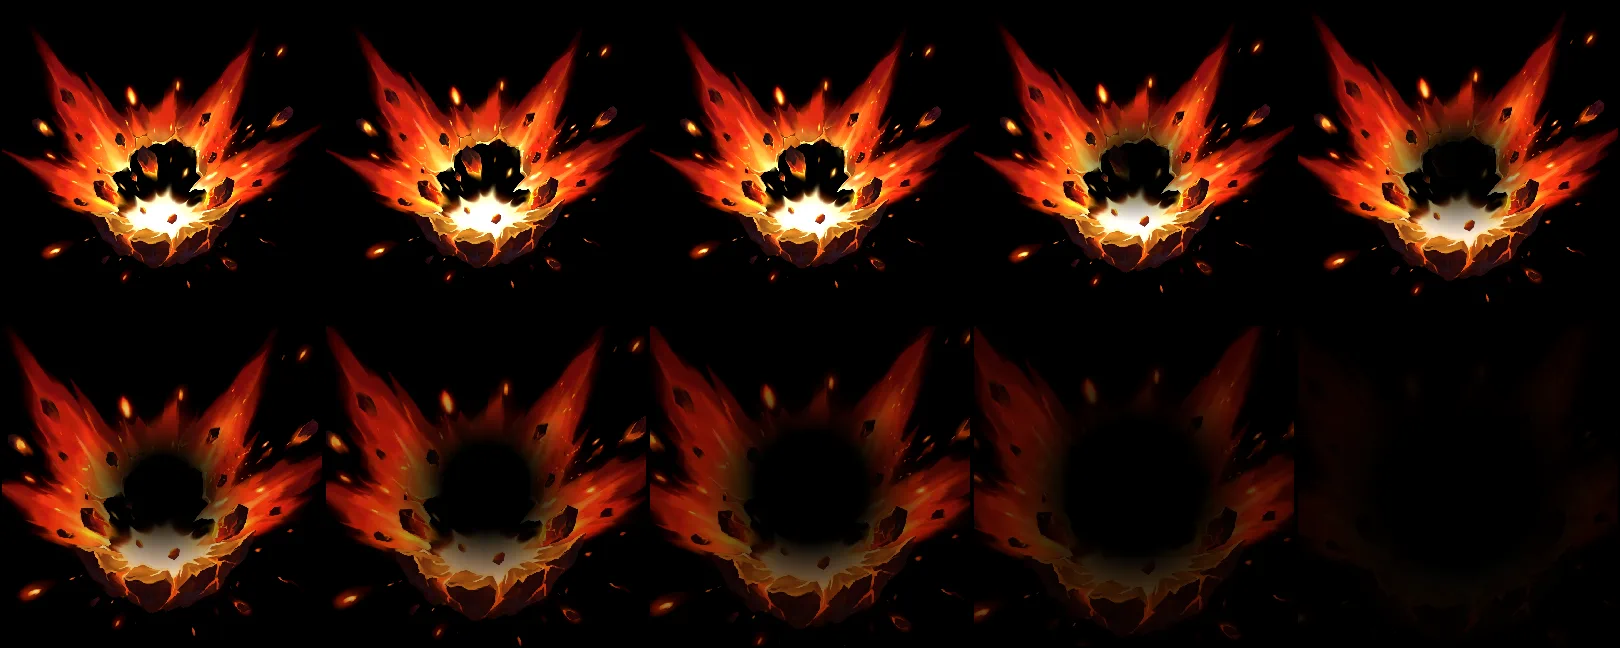
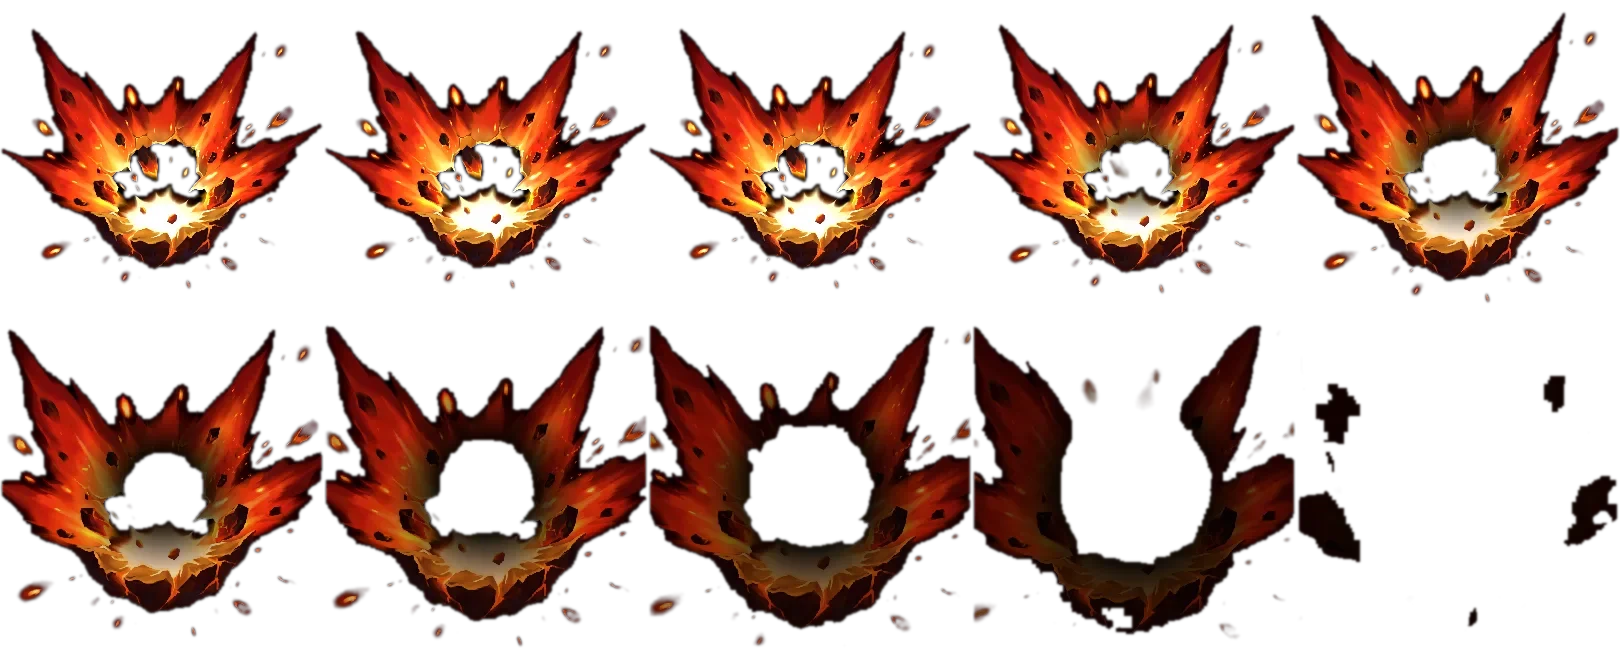
change(fx): the magma slam lands as an explosion, not an orange wash
The burst sheet comes out of the packer fully opaque, so it could only be
drawn additively, and additive cannot darken: the rock chunks in it went
invisible and what reached the board was a haze over the gems. cut-plate-alpha
gives the sheet the alpha it was missing — luminance at the petal tips, and
the small dark islands the flame encloses made opaque, which is what tells
rock from background. The burst's own hollow centre is far larger than any
chunk, so it stays clear and the board still shows through it.

The plate then blends normally, with an additive pass under it for the heat
that lights the gems, and it is sized to the board instead of past it.

diff --git a/src/game/director.js b/src/game/director.js
@@ -1321,11 +1321,20 @@ export class Director {
       y: board.y + board.size * fx.depth,
     };
 
-    const drawn = vfx.bossSwing(kind, where, {
+    const plate = {
       size: span * fx.wide,
       duration: fx.seconds,
       grow: fx.grow,
+    };
+
+    if (fx.glow) {
+      vfx.bossSwing(kind, where, { ...plate, alpha: fx.glow, blend: "add" });
+    }
+
+    const drawn = vfx.bossSwing(kind, where, {
+      ...plate,
       alpha: fx.alpha,
+      blend: fx.blend,
     });
     if (drawn && fx.shake) shake(fx.shake, fx.shakeSeconds || 0.4);
     return drawn;

diff --git a/src/config.js b/src/config.js
@@ -404,18 +404,22 @@ export const BOSS_FX = {
     shakeSeconds: 0.5,
   },
   smash: {
-    wide: 1.46,
-    depth: 0.56,
-    grow: 0.42,
+    blend: "normal",
+    glow: 0.7,
+    wide: 1.08,
+    depth: 0.5,
+    grow: 0.26,
     seconds: 0.5,
     alpha: 1,
     shake: 20,
     shakeSeconds: 0.55,
   },
   erupt: {
-    wide: 1.34,
-    depth: 0.6,
-    grow: 0.24,
+    blend: "normal",
+    glow: 0.7,
+    wide: 1.0,
+    depth: 0.54,
+    grow: 0.2,
     seconds: 0.6,
     alpha: 1,
     shake: 22,

diff --git a/src/fx/vfx.js b/src/fx/vfx.js
@@ -904,7 +904,7 @@ export class Vfx extends Container {
 
     const s = new Sprite(frames[0]);
     s.anchor.set(0.5);
-    s.blendMode = "add";
+    s.blendMode = o.blend || "add";
     s.x = at.x;
     s.y = at.y;
     s.rotation = o.rotation || 0;

diff --git a/tools/cut-plate-alpha.py b/tools/cut-plate-alpha.py
@@ -1,0 +1,117 @@
+import sys
+from pathlib import Path
+
+import numpy as np
+from PIL import Image
+from scipy.ndimage import (
+    binary_closing,
+    binary_fill_holes,
+    gaussian_filter,
+    label,
+)
+
+USAGE = """
+cut-plate-alpha — give an additive plate the alpha it needs to blend normally.
+
+  python tools/cut-plate-alpha.py <sheet.webp> [--cols 5] [--rows 2]
+                                  [--floor 0.055] [--quality 86] [--strip]
+
+  The build's burst sheets come out fully opaque: black background, black rock,
+  black everywhere the flame is not. Drawn additively the black vanishes, and so
+  does the rock with it, so the burst reads as an orange wash over the board
+  instead of an explosion with weight in it.
+
+  This cuts each cell's alpha in two parts. Alpha follows luminance, so the
+  petal tips keep their soft falloff, and then the small dark islands the flame
+  encloses are made opaque, which is what puts the rock back: rock is black like
+  the background, and only being enclosed by the flame tells them apart. The
+  burst's own hollow centre is far bigger than any chunk, so --hole leaves it
+  clear and the board keeps showing through it, as it does in the reference.
+
+  --strip also writes a PNG next to the webp, to look at.
+"""
+
+if "--help" in sys.argv:
+    print(USAGE)
+    raise SystemExit(0)
+
+args = sys.argv[1:]
+if not args:
+    print(USAGE)
+    raise SystemExit(1)
+
+
+def opt(name, fallback, cast=float):
+    if name in args:
+        return cast(args[args.index(name) + 1])
+    return fallback
+
+
+SRC = Path(args[0])
+COLS = opt("--cols", 5, int)
+ROWS = opt("--rows", 2, int)
+FLOOR = opt("--floor", 0.055)
+QUALITY = opt("--quality", 86, int)
+STRIP = "--strip" in args
+CLOSE = opt("--close", 5, int)
+FEATHER = opt("--feather", 1.1)
+KEEP = opt("--keep", 0.02)
+HOLE = opt("--hole", 0.012)
+
+sheet = Image.open(SRC).convert("RGBA")
+rgb = np.asarray(sheet, dtype=np.float32)[..., :3] / 255.0
+
+cw = sheet.width // COLS
+ch = sheet.height // ROWS
+alpha = np.zeros((sheet.height, sheet.width), dtype=np.float32)
+
+struct = np.ones((CLOSE, CLOSE), dtype=bool)
+
+for r in range(ROWS):
+    for c in range(COLS):
+        y0, y1 = r * ch, (r + 1) * ch
+        x0, x1 = c * cw, (c + 1) * cw
+        cell = rgb[y0:y1, x0:x1]
+
+        lum = cell.max(axis=2)
+        lit = lum > FLOOR
+        if not lit.any():
+            continue
+
+        marks, count = label(lit)
+        if count > 1:
+            sizes = np.bincount(marks.ravel())
+            sizes[0] = 0
+            biggest = sizes.argmax()
+            keep = sizes >= max(1, sizes[biggest] * KEEP)
+            lit = keep[marks]
+
+        closed = binary_closing(lit, structure=struct)
+        holes = binary_fill_holes(closed) & ~closed
+        marks, count = label(holes)
+        rock = np.zeros_like(holes)
+        if count:
+            sizes = np.bincount(marks.ravel())
+            sizes[0] = 0
+            small = sizes <= HOLE * lit.size
+            rock = small[marks] & holes
+
+        soft = np.clip((lum - FLOOR) / (0.34 - FLOOR), 0.0, 1.0)
+        a = np.where(closed | rock, 1.0, soft)
+        if FEATHER > 0:
+            a = gaussian_filter(a, FEATHER)
+        alpha[y0:y1, x0:x1] = np.clip(a, 0.0, 1.0)
+
+out = np.asarray(sheet).copy()
+out[..., 3] = np.round(alpha * 255).astype(np.uint8)
+cut = Image.fromarray(out, "RGBA")
+
+cut.save(SRC, "WEBP", quality=QUALITY, method=6, exact=True)
+if STRIP:
+    cut.save(SRC.with_suffix(".png"), "PNG")
+
+covered = float((alpha > 0.5).mean())
+clear = float((alpha < 0.02).mean())
+print(f"{SRC.name}: {sheet.width}x{sheet.height} {COLS}x{ROWS}")
+print(f"  opaque {covered * 100:.1f}%   clear {clear * 100:.1f}%")
+print(f"  {SRC.stat().st_size / 1024:.1f} kB")
